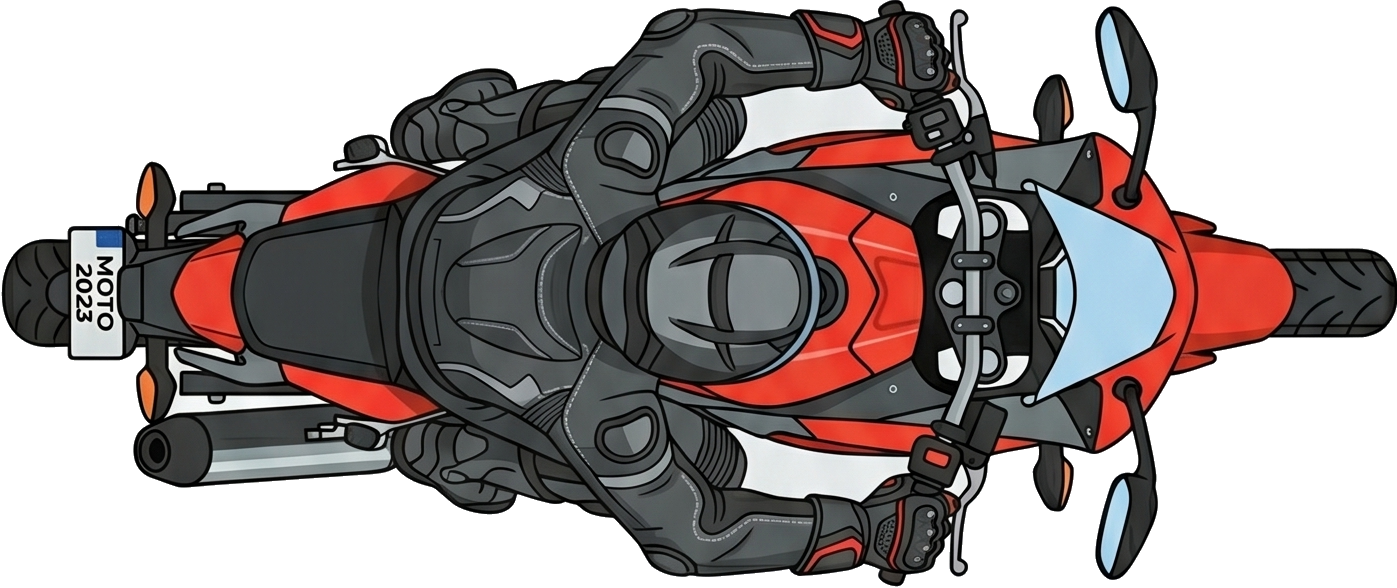
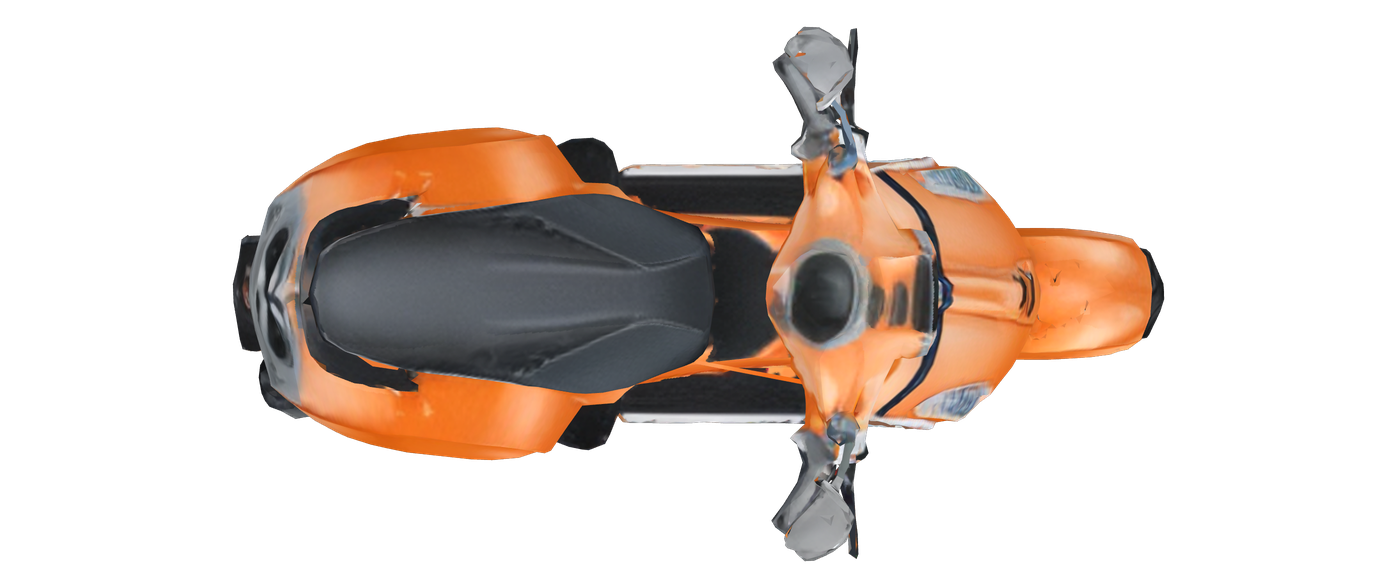
agrega correciones de imagen  de auto y moto

diff --git a/dashboard.html b/dashboard.html
@@ -444,6 +444,7 @@ html, body { margin: 0; padding: 0; width: 100%; height: 100%; background: #0a00
 /* empuja al fondo */
 
 
+
 /* ============================================================
    TEMA AMARILLO (MAJOR) - subtitle
    ============================================================ */
@@ -749,7 +750,7 @@ html, body { margin: 0; padding: 0; width: 100%; height: 100%; background: #0a00
   .sheet[data-id="major"] .vehicle-layout,
   .sheet[data-id="grand"] .vehicle-layout {
     display: grid;
-    grid-template-columns: minmax(0, 1fr) minmax(0, 5fr) minmax(0, 1fr);
+    grid-template-columns: minmax(0, 1fr) minmax(0, 3.4fr) minmax(0, 1fr);
     grid-template-rows: 1fr auto;
     gap: 1cqw 1cqw;
     align-items: stretch;
@@ -760,8 +761,10 @@ html, body { margin: 0; padding: 0; width: 100%; height: 100%; background: #0a00
   /* Fila 1: las 3 columnas */
   .sheet[data-id="major"] .vehicle-side-left,
   .sheet[data-id="grand"] .vehicle-side-left { grid-column: 1; grid-row: 1; }
+  .sheet[data-id="major"] .vehicle-side-right,
+  .sheet[data-id="grand"] .vehicle-side-right { grid-column: 2; grid-row: 1; }
   .sheet[data-id="major"] .cluster,
-  .sheet[data-id="grand"] .cluster { grid-column: 2; grid-row: 1; }
+  .sheet[data-id="grand"] .cluster { grid-column: 3; grid-row: 1; }
     /* GRAND: layout con auto F1 arriba, bateria + odometer al fondo (juntos) */
   .sheet[data-id="grand"] .vehicle-side-right {
     position: relative;                 /* para anclar sprite-wrapper absolute */
@@ -815,7 +818,7 @@ html, body { margin: 0; padding: 0; width: 100%; height: 100%; background: #0a00
   /* Fila 2: barra de progreso solo en la columna 2 (debajo del cluster) */
   .sheet[data-id="major"] .vehicle-progress-bottom,
   .sheet[data-id="grand"] .vehicle-progress-bottom {
-    grid-column: 2;
+    grid-column: 3;
     grid-row: 2;
     width: 100%;
     margin-top: 0;
@@ -989,6 +992,132 @@ html, body { margin: 0; padding: 0; width: 100%; height: 100%; background: #0a00
   font-size: clamp(16px, 1.9cqw, 28px);
   font-weight: 900;
   margin-top: 0.3cqh;
+}
+
+/* ============================================================
+   GRAND/MAJOR: cluster reorganizado COMPACTO (a la derecha).
+   Gauges arriba (lado a lado, tamaño acotado) y KPIs en 2 columnas debajo.
+   El vehiculo queda al centro.
+   ============================================================ */
+.sheet[data-id="major"] .cluster-grid,
+.sheet[data-id="grand"] .cluster-grid {
+  grid-template-columns: 1fr;
+  grid-template-rows: auto auto auto;
+  grid-template-areas: "g" "l" "r";
+  gap: 1.3cqh 0;
+  padding: 0;
+  align-items: stretch;
+  justify-items: stretch;
+}
+.sheet[data-id="major"] .cluster-grid > .cluster-gauges,
+.sheet[data-id="grand"] .cluster-grid > .cluster-gauges {
+  grid-area: g;
+  grid-template-columns: 1fr 1fr;
+  gap: 0.8cqw;
+  height: auto;
+  width: 100%;
+  justify-content: center;
+  margin-bottom: 0.6cqh;
+}
+.sheet[data-id="major"] .cluster-grid > .cluster-kpi-col:first-child,
+.sheet[data-id="grand"] .cluster-grid > .cluster-kpi-col:first-child {
+  grid-area: l;
+  width: 100%;
+  gap: 1.2cqh;
+}
+.sheet[data-id="major"] .cluster-grid > .cluster-kpi-col:last-child,
+.sheet[data-id="grand"] .cluster-grid > .cluster-kpi-col:last-child {
+  grid-area: r;
+  width: 100%;
+  gap: 1.2cqh;
+}
+/* Gauges: sin el scale(4.2), tamaño compacto para la columna estrecha */
+.sheet[data-id="major"] .cluster-grid .moto-gauge,
+.sheet[data-id="grand"] .cluster-grid .moto-gauge {
+  transform: none;
+  width: 8.5cqw;
+  max-width: 8.5cqw;
+  margin: 0 auto;
+}
+.sheet[data-id="major"] .cluster-grid .moto-gauge-value,
+.sheet[data-id="grand"] .cluster-grid .moto-gauge-value {
+  font-size: clamp(9px, 1.2cqw, 17px);
+}
+.sheet[data-id="major"] .cluster-grid .moto-gauge-label,
+.sheet[data-id="grand"] .cluster-grid .moto-gauge-label {
+  font-size: clamp(6px, 0.75cqw, 11px);
+}
+/* VEHICULO al centro: acotar el sprite a su columna y centrarlo (un poco mas abajo).
+   La columna central ahora tiene SOLO el vehiculo. */
+.sheet[data-id="grand"] .sprite-wrapper {
+  width: 88% !important;
+  top: 74% !important;
+  transform: translate(-50%, -50%) !important;
+}
+.sheet[data-id="major"] .sprite-wrapper {
+  width: 70% !important;
+  top: 74% !important;
+  transform: translate(-50%, -50%) !important;
+}
+/* CHISPAS (fuegos): acotarlas (antes 220%, quedaban enormes y caian muy abajo)
+   y centrarlas sobre el vehiculo */
+.sheet[data-id="grand"] .auto-sparks,
+.sheet[data-id="major"] .moto-sparks {
+  width: 120% !important;
+  top: 66% !important;
+  transform: translate(-50%, -50%) !important;
+}
+/* Achicar SOLO el sprite de la moto (el pedestal/disco no se toca) */
+.sheet[data-id="major"] .sprite-wrapper.moto-wrapper .moto-sprite {
+  transform: translateY(-12%) scale(0.78) !important;
+  transform-origin: center center !important;
+}
+
+/* ============================================================
+   PANEL DERECHO (KPIs): nuevo diseño limpio en vez del trapecio estirado.
+   Panel redondeado con borde luminoso; gauges arriba y KPIs en rejilla 2x2.
+   ============================================================ */
+.sheet[data-id="major"] .cluster-bg,
+.sheet[data-id="grand"] .cluster-bg {
+  display: none;                 /* ocultar la forma trapezoidal vieja */
+}
+/* Panel vertical tipo HUD: columna estrecha, esquinas asimetricas, borde luminoso */
+.sheet[data-id="major"] .cluster,
+.sheet[data-id="grand"] .cluster {
+  padding: 2cqh 1cqw;
+  margin-top: 6cqh;
+  border-radius: 22px 8px 22px 8px;
+  background: linear-gradient(180deg, rgba(255,170,0,0.12), rgba(0,0,0,0.6));
+  border: 2px solid rgba(255,215,0,0.55);
+  box-shadow: 0 0 16px rgba(255,170,0,0.30), inset 0 0 26px rgba(0,0,0,0.5);
+  box-sizing: border-box;
+}
+.sheet[data-id="grand"] .cluster {
+  background: linear-gradient(180deg, rgba(0,229,212,0.12), rgba(0,0,0,0.6));
+  border-color: rgba(0,229,212,0.55);
+  box-shadow: 0 0 16px rgba(0,229,212,0.30), inset 0 0 26px rgba(0,0,0,0.5);
+  border-radius: 8px 22px 8px 22px;
+}
+/* KPIs: filas sleek con barra de acento lateral (en vez de cajitas cuadradas) */
+.sheet[data-id="major"] .cluster-kpi,
+.sheet[data-id="grand"] .cluster-kpi {
+  background: linear-gradient(90deg, rgba(255,215,0,0.16), rgba(255,215,0,0));
+  border: none;
+  border-left: 3px solid rgba(255,215,0,0.85);
+  border-radius: 0 8px 8px 0;
+  display: flex;
+  align-items: center;
+  justify-content: space-between;
+  padding: 0.7cqh 0.9cqw;
+  width: 100%;
+}
+.sheet[data-id="grand"] .cluster-kpi {
+  background: linear-gradient(90deg, rgba(0,229,212,0.16), rgba(0,229,212,0));
+  border-left-color: rgba(0,229,212,0.85);
+}
+.sheet[data-id="major"] .cluster-kpi .cluster-kpi-value,
+.sheet[data-id="grand"] .cluster-kpi .cluster-kpi-value {
+  margin-top: 0;
 }
 .cluster-progress {
   position: relative;
@@ -2123,7 +2252,7 @@ body.production-mode .reel-strip {
   transform: translate(-10%, -15%);
 }
 .home-pot.home-major .home-pot-sprite {
-  transform: translateY(-8%);
+  transform: translateY(-8%) scale(0.85);
 }
 .home-pot-vehicle-box::before {
   content: '';
@@ -3736,7 +3865,7 @@ function buildMotoSheet(data, sheet) {
               <div class="cluster-kpi-value" data-role="rpm-kpi" style="color:#ffd600;text-shadow:0 0 6px #ffd600;">${kL1}</div>
             </div>
             <div class="cluster-kpi">
-              <div class="cluster-kpi-label">MARCHA</div>
+              <div class="cluster-kpi-label">GEAR</div>
               <div class="cluster-kpi-value blink" data-role="gear-kpi" style="color:#ff8800;text-shadow:0 0 6px #ff8800;">${kL2}</div>
             </div>
           </div>
@@ -3802,10 +3931,6 @@ function buildMotoSheet(data, sheet) {
         <div class="sprite-wrapper moto-wrapper">
           <canvas class="pedestal-3d" id="motoPedestal3D" width="320" height="320"></canvas>
           <div class="moto-sprite" id="motoSprite"></div>
-        </div>
-        <div class="moto-gear-big">
-          <div class="moto-gear-label">GEAR</div>
-          <div class="moto-gear-number" data-role="gear-big">${data.gear}</div>
         </div>
       </div>
 
@@ -3978,17 +4103,6 @@ function buildCarSheet(data, sheet) {
         <div class="sprite-wrapper auto-wrapper">
           <canvas class="pedestal-3d" id="autoPedestal3D" width="320" height="320"></canvas>
           <div class="auto-sprite" id="autoSprite"></div>
-        </div>
-        <div class="car-battery">
-          <div class="car-battery-label">BATERIA</div>
-          <div class="car-battery-icon">
-            <div class="car-battery-fill" data-role="battery-fill" style="width:${data.battery}%"></div>
-          </div>
-          <div class="car-battery-value" data-role="battery-value">${data.battery}%</div>
-        </div>
-        <div class="car-odometer">
-          <div class="car-odo-label">KM TOTAL</div>
-          <div class="car-odo-value" data-role="odo-value">${odoStr}</div>
         </div>
       </div>
 
@@ -5228,8 +5342,10 @@ function homePositionPots() {
   const ROWS_TOP = T + TOP_LETRERO + HOME_SHIFT;
   const ROWS_BOTTOM = B - BANNER_RESERVE + HOME_SHIFT;
   const totalRowsH = ROWS_BOTTOM - ROWS_TOP - ROW_GAP;
-  const bigH = totalRowsH * 0.46;
-  const smallH = totalRowsH * 0.50;
+  const bigH = totalRowsH * 0.46;     // base fila de arriba (igual que antes)
+  const smallH = totalRowsH * 0.50;   // MINOR / MINI: igual que antes (no se tocan)
+  // GRAND / MAJOR crecen un poco HACIA ARRIBA, sin mover la fila de abajo.
+  const GRAND_EXTRA = totalRowsH * 0.10;
 
   // Fila 2 (GRAND | MAJOR)
   const grandX = L + sideMargin;
@@ -5252,8 +5368,8 @@ function homePositionPots() {
     el.style.height = h + 'px';
   }
 
-  place('home-pot-grand', grandX, grandY, colW, bigH);
-  place('home-pot-major', majorX, majorY, colW, bigH);
+  place('home-pot-grand', grandX, grandY - GRAND_EXTRA, colW, bigH + GRAND_EXTRA);
+  place('home-pot-major', majorX, majorY - GRAND_EXTRA, colW, bigH + GRAND_EXTRA);
   place('home-pot-minor', minorX, minorY, colW, smallH);
   place('home-pot-mini', miniX, miniY, colW, smallH);
 